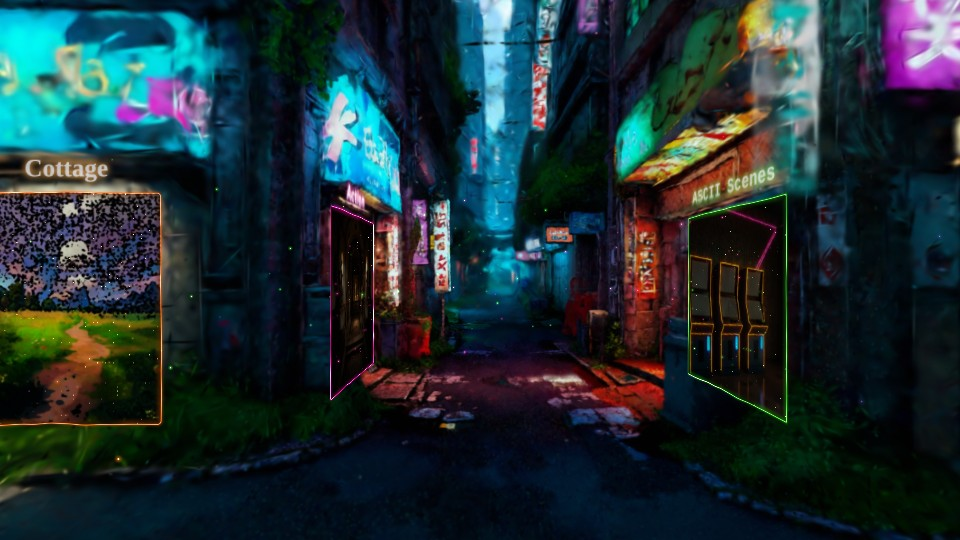
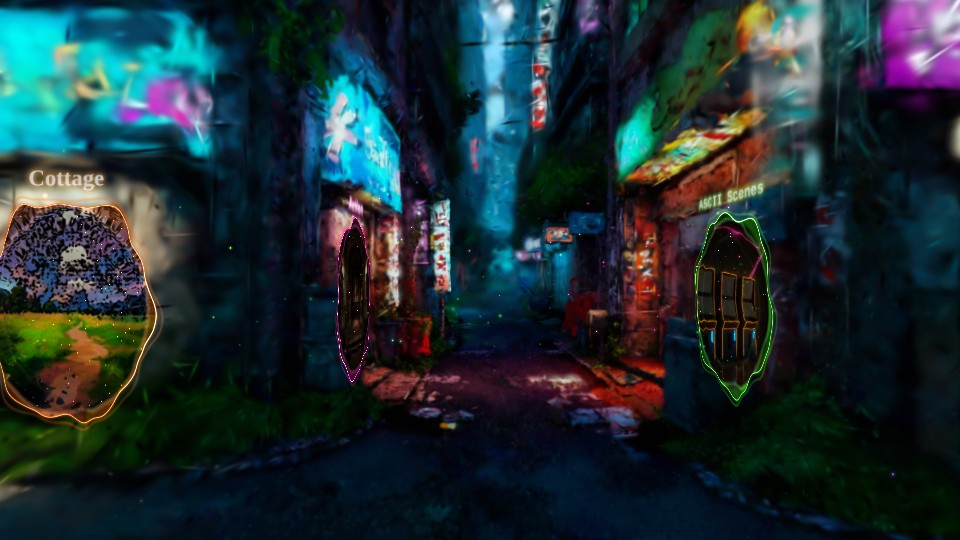
Riftwalk: storefront doors are ovals with riptide rims
Claude-Session: https://claude.ai/code/session_01TxZr4RmfihzP76ifA4b2XV

diff --git a/public/lab/riftwalk/main.js b/public/lab/riftwalk/main.js
@@ -91,9 +91,11 @@ const FRAGMENT = `
   uniform float uLit; uniform float uTime; uniform float uHot; uniform float uFlow; uniform float uSeed; uniform float uRadius; uniform float uWave; uniform float uScan; uniform float uDoor; uniform float uBox;
   float hash(vec2 p) { return fract(sin(dot(p, vec2(127.1, 311.7))) * 43758.5453); }
   float noise(vec2 p) { vec2 i = floor(p), f = fract(p); f = f * f * (3.0 - 2.0 * f); return mix(mix(hash(i), hash(i + vec2(1, 0)), f.x), mix(hash(i + vec2(0, 1)), hash(i + vec2(1, 1)), f.x), f.y); }
-  // Under 0 inside the shape. A screen is a box with round corners. A rift ring is a disc.
+  // Under 0 inside the shape. A screen is a box with round corners. A rift ring is a disc. A storefront door is an
+  // upright oval: the distance is the scaled-circle estimate, which is close enough near the rim.
   float shape(vec2 p) {
     if (uDoor > 0.5 && uBox < 0.5) return length(p) - uHalf.x;
+    if (uBox > 0.5) return (length(p / uHalf) - 1.0) * min(uHalf.x, uHalf.y);
     vec2 q = abs(p) - uHalf + uRadius; return length(max(q, 0.0)) + min(max(q.x, q.y), 0.0) - uRadius;
   }
   void main() {
@@ -102,6 +104,8 @@ const FRAGMENT = `
     float turn = atan(p.y / uHalf.y, p.x / uHalf.x); vec2 c = vec2(cos(turn), sin(turn));   // the way round the rim, with no seam
     float n = noise(c * 2.3 + vec2(uTime * 0.55 + uSeed, uSeed)) * 0.6 + noise(c * 6.0 - vec2(uSeed, uTime * 0.9)) * 0.4;
     float edge = d - (n - 0.5) * uWave;                       // the rim wavers
+    // A storefront door has a riptide rim: two trains of waves run round it in opposite ways, over the slow noise.
+    if (uBox > 0.5) edge -= 0.034 * sin(turn * 6.0 - uTime * 2.1 + uSeed * 6.283) + 0.02 * sin(turn * 11.0 + uTime * 3.0 + n * 3.0) + (n - 0.5) * 0.07;
     float inside = smoothstep(0.003, -0.003, edge), rim = smoothstep(-0.07, 0.0, d);
     // The picture covers the shape: the longer side of the picture is cropped.
     vec2 uv = p / uHalf * 0.5; float form = uHalf.x / uHalf.y; if (uAspect > form) uv.x *= form / uAspect; else uv.y *= uAspect / form; uv += 0.5;
@@ -109,6 +113,9 @@ const FRAGMENT = `
     vec2 fl = vec2(noise(uv * 3.0 + vec2(uTime * 0.35, uSeed * 7.0)), noise(uv * 3.0 + vec2(uSeed * 3.0, -uTime * 0.3))) - 0.5;
     fl += 0.5 * (vec2(noise(uv * 7.0 - vec2(uTime * 0.5, 2.0)), noise(uv * 7.0 + vec2(5.0, uTime * 0.45))) - 0.5);
     uv = (uv - 0.5) * (1.0 - 0.07 * uFlow) + 0.5 + fl * 0.06 * uFlow + vec2(sin(uTime * 0.4 + uSeed * 6.0), cos(uTime * 0.33)) * 0.012 * uFlow;
+    // In a storefront door, rings of water run from the rim toward the middle and bend the picture near the rim.
+    float rr = length(p / uHalf), tide = sin(rr * 30.0 + uTime * 2.6 + n * 4.0) * smoothstep(0.45, 1.0, rr) * uBox;
+    uv += normalize(p + 1e-4) * 0.014 * tide;
     vec3 pic = mix(uColor * 0.35, texture2D(uMap, uv).rgb, uHasMap) * (1.0 + 0.12 * uFlow);
     // A game shows as a picture on the machine's own tube: scan lines, darker corners, and a faint shine on the glass.
     float lines = 1.0 - uScan * 0.15 * (0.5 + 0.5 * sin(p.y * 820.0));
@@ -117,7 +124,8 @@ const FRAGMENT = `
     // A door shows its zone through a slow swirl of that zone's light, thicker toward the rim.
     if (uDoor > 0.5) { float r = length(p / uHalf); float swirl = noise(c * 1.6 + vec2(r * 3.0 - uTime * 0.45, uSeed)) * 0.6 + noise(c * 4.0 + vec2(uSeed, r * 5.0 + uTime * 0.3)) * 0.4; art = mix(uColor * (0.10 + 0.5 * swirl * swirl) * (0.35 + 0.65 * smoothstep(0.0, 1.0, r)) + vec3(0.02, 0.01, 0.04), pic * (0.6 + 0.3 * swirl) * (1.0 - 0.5 * rim) + uColor * 0.45 * rim * swirl, uHasMap);
       // Stars in the door: a few points of light that come and go.
-      vec2 cell = floor(p * 26.0), in2 = fract(p * 26.0) - 0.5; float star = step(0.9, hash(cell + uSeed)) * smoothstep(0.22, 0.0, length(in2)) * pow(0.5 + 0.5 * sin(uTime * (1.5 + 3.0 * hash(cell)) + hash(cell + 3.0) * 6.283), 3.0); art += mix(uColor, vec3(1.0), 0.6) * star * 1.4; }
+      vec2 cell = floor(p * 26.0), in2 = fract(p * 26.0) - 0.5; float star = step(0.9, hash(cell + uSeed)) * smoothstep(0.22, 0.0, length(in2)) * pow(0.5 + 0.5 * sin(uTime * (1.5 + 3.0 * hash(cell)) + hash(cell + 3.0) * 6.283), 3.0); art += mix(uColor, vec3(1.0), 0.6) * star * 1.4;
+      art += mix(uColor, vec3(1.0), 0.35) * 0.3 * pow(max(tide, 0.0), 3.0); }   // the crests of the rings catch the light
     else { float glint = exp(-pow((p.x / uHalf.x * 0.7 + p.y / uHalf.y * 0.5 + 1.6 - mod(uTime * 0.55 + uSeed * 5.0, 3.2) * 1.0) / 0.12, 2.0)); art += mix(uColor, vec3(1.0), 0.5) * glint * 0.2 * uHot; }   // a glint crosses the screen in view
     // A machine with no game idles in its zone's colour: a dim tube with a slow bright bar that rolls down it.
     float bar = exp(-pow((fract(p.y / (uHalf.y * 2.0) + uTime * 0.06 + uSeed) - 0.5) / 0.07, 2.0));
@@ -125,6 +133,8 @@ const FRAGMENT = `
     vec3 face = mix(idle, art, uLit);
     float pulse = pow(0.5 + 0.5 * cos(turn - uTime * 1.7 - uSeed * 6.283), 10.0);
     float band = exp(-pow(edge / 0.006, 2.0)) * (0.75 + 0.5 * uHot + 0.8 * pulse) + 0.24 * exp(-pow(max(edge, 0.0) / 0.02, 2.0)) * (0.5 + n) * (1.0 - inside);
+    // Foam outside a storefront door: a second, fainter line that the waves push out and pull back.
+    band += uBox * 0.3 * exp(-pow((edge - 0.045 - 0.02 * sin(turn * 9.0 - uTime * 2.4)) / 0.012, 2.0)) * (0.4 + n);
     band *= mix(0.2, 1.0, uLit);
     vec3 glow = mix(mix(uZone, uColor, uLit), vec3(1.0), 0.5 * exp(-pow(edge / 0.003, 2.0)) + 0.3 * pulse);
     float a = clamp(max(inside, band), 0.0, 1.0);
@@ -179,7 +189,7 @@ function labelTexture(title, color, font = LOOKS.action.font) {
 const flat = { transparent: true, depthWrite: false, depthTest: false };
 function makePortal(place, index, zone) {
   const look = LOOKS[zone.id] || LOOKS.action;
-  const group = new THREE.Group(), half = new THREE.Vector2(place.width / 2 * GROW, place.height / 2 * GROW), size = new THREE.Vector2(half.x + MARGIN * (place.ring ? 3 : 1), half.y + MARGIN * (place.ring ? 3 : 1));
+  const group = new THREE.Group(), half = new THREE.Vector2(place.width / 2 * GROW, place.height / 2 * GROW), size = new THREE.Vector2(half.x + MARGIN * (place.box ? 5 : place.ring ? 3 : 1), half.y + MARGIN * (place.box ? 5 : place.ring ? 3 : 1));
   const uniforms = { uMap: { value: null }, uHasMap: { value: 0 }, uAspect: { value: 1 }, uColor: { value: new THREE.Color('#5ff2ff') }, uHalf: { value: half }, uQuad: { value: size }, uLit: { value: 0 }, uTime: { value: 0 }, uHot: { value: 0 }, uSeed: { value: (index * 0.618) % 1 }, uFlow: { value: 0 }, uZone: { value: new THREE.Color(zone.color) }, uRadius: { value: look.radius }, uWave: { value: place.ring ? 0.03 : look.wave }, uScan: { value: look.scan }, uDoor: { value: place.ring ? 1 : 0 }, uBox: { value: place.box ? 1 : 0 } };
   const face = new THREE.Mesh(quad, new THREE.ShaderMaterial({ uniforms, vertexShader: VERTEX, fragmentShader: FRAGMENT, ...flat, premultipliedAlpha: true }));
   face.scale.set(size.x, size.y, 1); face.renderOrder = 16; face.frustumCulled = false; group.add(face);

diff --git a/public/lab/riftwalk/hall.js b/public/lab/riftwalk/hall.js
@@ -70,7 +70,7 @@ export function assign(seatList, games, page = 0) {
 
 // A rift ring as a place: a flat disc on the wall, with the same fields as a screen so pick, facing and neighbour
 // treat it as one more place. Its width and height are the ring's diameter. A storefront door is a ring with a width
-// and a height in place of a radius: an upright box on the shop's front.
+// and a height in place of a radius: an upright oval on the shop's front, picked by its box.
 export function ringPlace(ring) {
   const n = ring.normal, up = [0, 1, 0], right = [up[1] * n[2] - up[2] * n[1], up[2] * n[0] - up[0] * n[2], up[0] * n[1] - up[1] * n[0]];
   return ring.width ? { ring: true, box: true, centre: ring.centre, right, up, normal: n, width: ring.width, height: ring.height } : { ring: true, centre: ring.centre, right, up, normal: n, width: ring.radius * 2, height: ring.radius * 2 };

diff --git a/openspec/changes/add-riftwalk/design.md b/openspec/changes/add-riftwalk/design.md
@@ -29,6 +29,7 @@ Why these pairs: the meadow is the cottage look, Olympus leads the Action row an
 - The world is a crossroads: a narrow alley along z and a street along x. The walking floor is two boxes that cross (`bounds.boxes`), and `walk()` ends a step in the nearer box, so the visitor cannot go through a corner building.
 - Finding the storefronts: `games/riftwalk/tools/scenery-room.py` has the splat reader. A scratch script drew eight views from the origin as points with a depth map and a top-down map. I chose six shop fronts in the views. The points of each front give its wall (the walls follow the two axes), its place along the wall and its top. Each door is a box 2.05 m high and at most 1.9 m wide, on the ground, 6 cm in front of the wall. The result is `worlds/hall/screens.json`.
 - A door is the same portal quad as before with a box shape (`ringPlace()` gives a box when the ring has a width and a height). It shows `door.webp`, a picture of the world behind it, under the slow swirl and stars of a rift.
+- The user's words: "portals don't quite fit the store fronts maybe make them ovals with riptides on the edges". A door now draws as an upright oval, 1.5 m by 1.95 m at most, so it sits inside a shop front that is not square to it. Its rim is a riptide: two trains of sine waves run round the rim in opposite ways over slow noise, rings of water run from the rim toward the middle and bend the picture, and a fainter foam line moves in and out just outside the rim. The oval's distance is the scaled-circle estimate from Inigo Quilez's notes on 2D distance functions (iquilezles.org/articles/distfunctions2d), which is close enough near the rim; the waves are my own.
 - A station is the place on the street 3 to 4 m in front of a door. The arrows turn from door to door. A door seen from behind is not a stop.
 - No source was adapted for the storefront layout or the point drawings. The frame and door quads draw after the splats, like every portal of this page.
 

diff --git a/openspec/changes/add-riftwalk/specs/riftwalk/spec.md b/openspec/changes/add-riftwalk/specs/riftwalk/spec.md
@@ -1,7 +1,7 @@
 ## ADDED Requirements
 
 ### Requirement: A neon alley whose storefronts are portals
-Riftwalk SHALL open in a neon alley at night, at a crossroads, as a Gaussian splat world seen at eye height. Each collection of the homepage (Cottage, Action, ASCII Scenes, Strategy, GTA, Lab) SHALL be a zone with one storefront of the alley. A door-sized portal SHALL stand on the front of each storefront, on the ground, with the zone's name over it, a moving bright edge in the zone's colour, and a view into the zone's world. All six doors SHALL be lit at once. The alley SHALL have no arcade machines. The picture under the mouse pointer SHALL flow, and SHALL be still again when the pointer leaves it. Riftwalk SHALL NOT show a portal to itself.
+Riftwalk SHALL open in a neon alley at night, at a crossroads, as a Gaussian splat world seen at eye height. Each collection of the homepage (Cottage, Action, ASCII Scenes, Strategy, GTA, Lab) SHALL be a zone with one storefront of the alley. A door-sized portal SHALL stand on the front of each storefront, on the ground, with the zone's name over it and a view into the zone's world. The portal SHALL be an upright oval, and its edge SHALL ripple like water in the zone's colour. With reduced motion the edge SHALL hold still. All six doors SHALL be lit at once. The alley SHALL have no arcade machines. The picture under the mouse pointer SHALL flow, and SHALL be still again when the pointer leaves it. Riftwalk SHALL NOT show a portal to itself.
 
 #### Scenario: Enter the alley
 - **WHEN** the visitor enters the alley

diff --git a/openspec/changes/add-riftwalk/tasks.md b/openspec/changes/add-riftwalk/tasks.md
@@ -62,5 +62,6 @@ The alley of storefront portals (the user's six Marble worlds):
 - [x] Rewrite `qa/lab/riftwalk.test.mjs` (6 checks) and `qa/lab/riftwalk.e2e.mjs` (10 checks, with the real alley file loaded). Both pass.
 - [x] See the alley with its doors (`shots/alley.jpg`, a 600,000-splat copy) and the meadow world with its frames (`shots/worlds.jpg`, 500,000 splats) drawn by the page.
 - [x] New cabinet art and wording in the homepage, the switcher, the Corridor and the Lab page.
+- [x] Oval doors with riptide rims, at the user's word; both tests pass and the doors are seen in `shots/alley.jpg` (a 250,000-splat copy).
 - [ ] See the alley at its full 2,000,000 splats. Software WebGL is too slow for it.
 - [ ] Play on a real phone and a real graphics card (not possible in this session).
